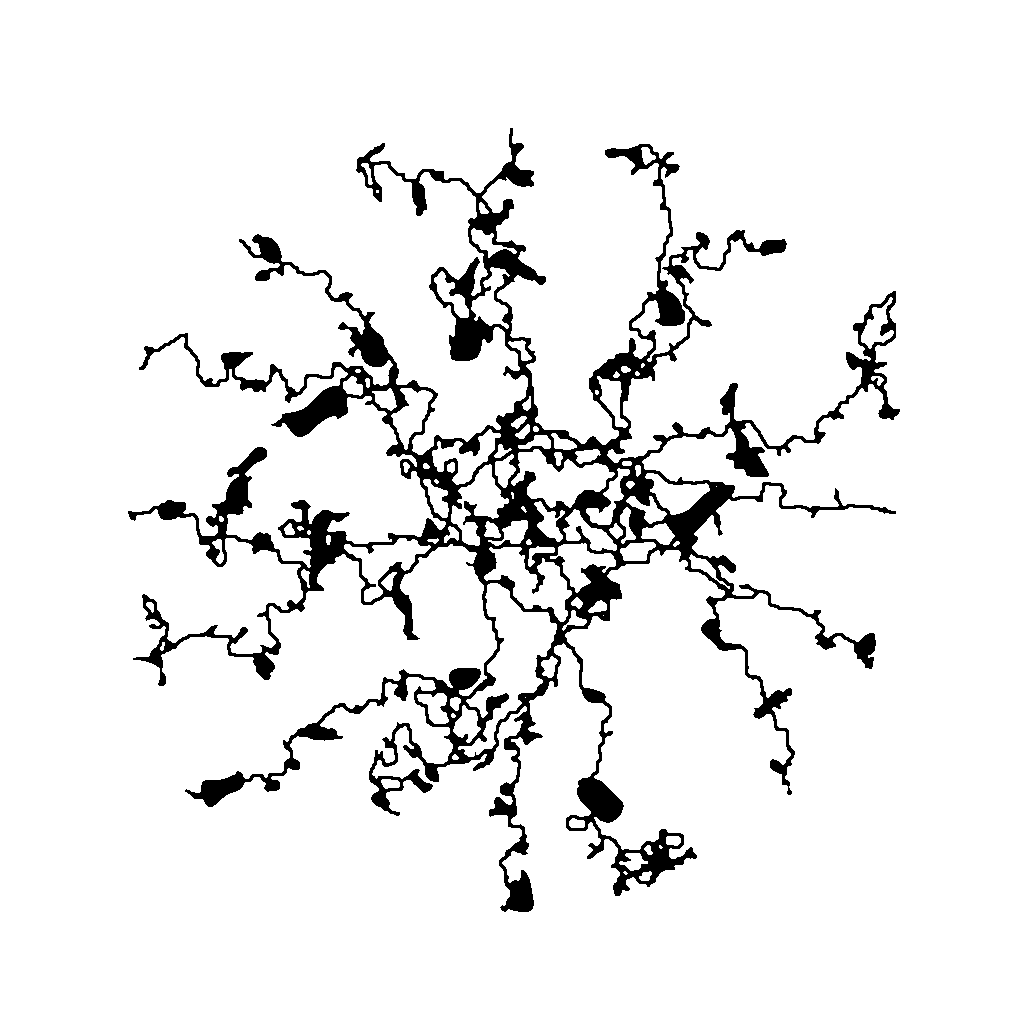
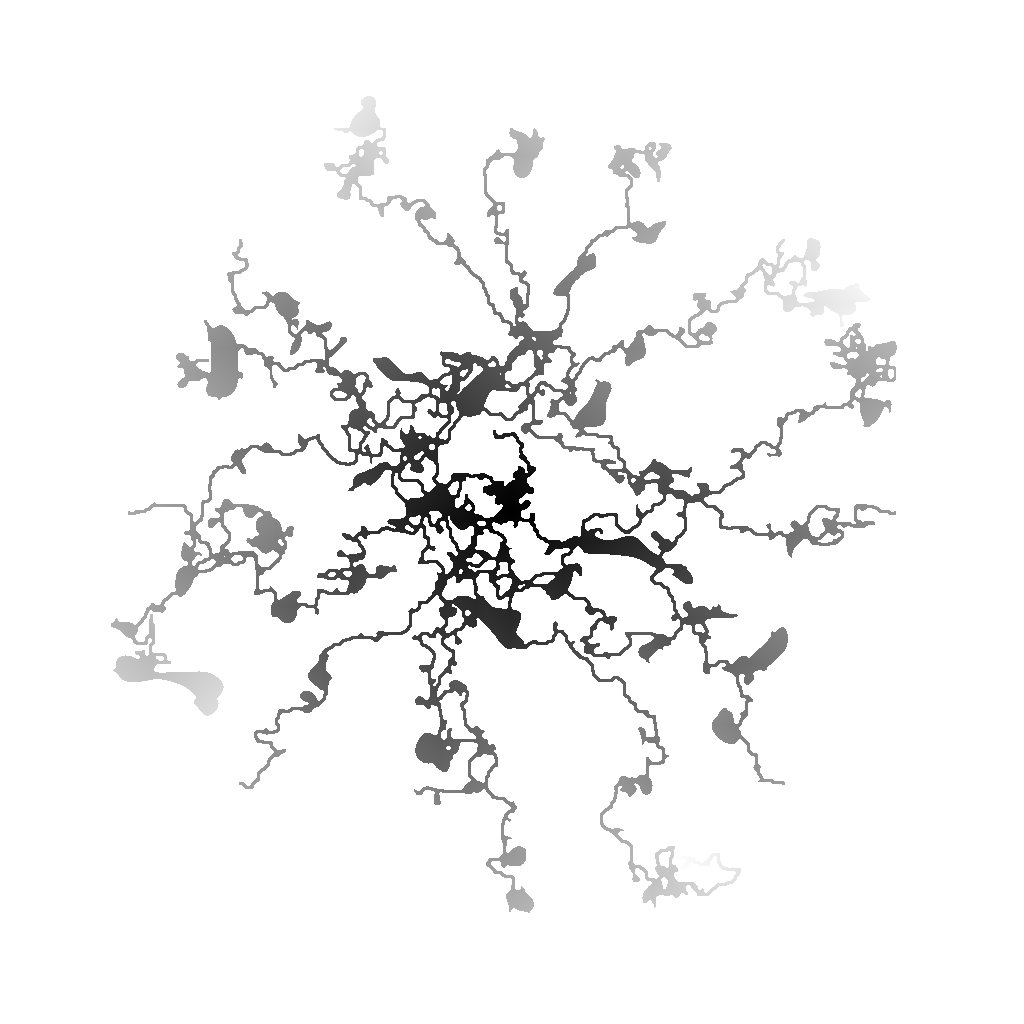
feat: fix choropleth

Changed region(s): [[0.0938, 0.0938, 0.875, 0.9062]]

diff --git a/packages/generation/src/post/flood.rs b/packages/generation/src/post/flood.rs
@@ -17,7 +17,6 @@ pub fn flood_fill(map: &Vec<Vec<bool>>, start: (usize, usize)) -> Vec<Vec<usize>
             }
         }
     }
-
     distances
 }
 
@@ -33,7 +32,7 @@ fn neighbors((x, y): (usize, usize), width: usize, height: usize) -> Vec<(usize,
 pub fn write_choropleth(values: &Vec<Vec<usize>>, filename: &str) -> std::io::Result<()> {
     let height = values.len() as u32;
     let width = values[0].len() as u32;
-    let max_value = values.iter().flatten().max().unwrap_or(&1);
+    let max_value = values.iter().flatten().filter(|&&d| d != usize::MAX).max().unwrap_or(&1);
 
     let mut img = ImageBuffer::new(width, height);
 
